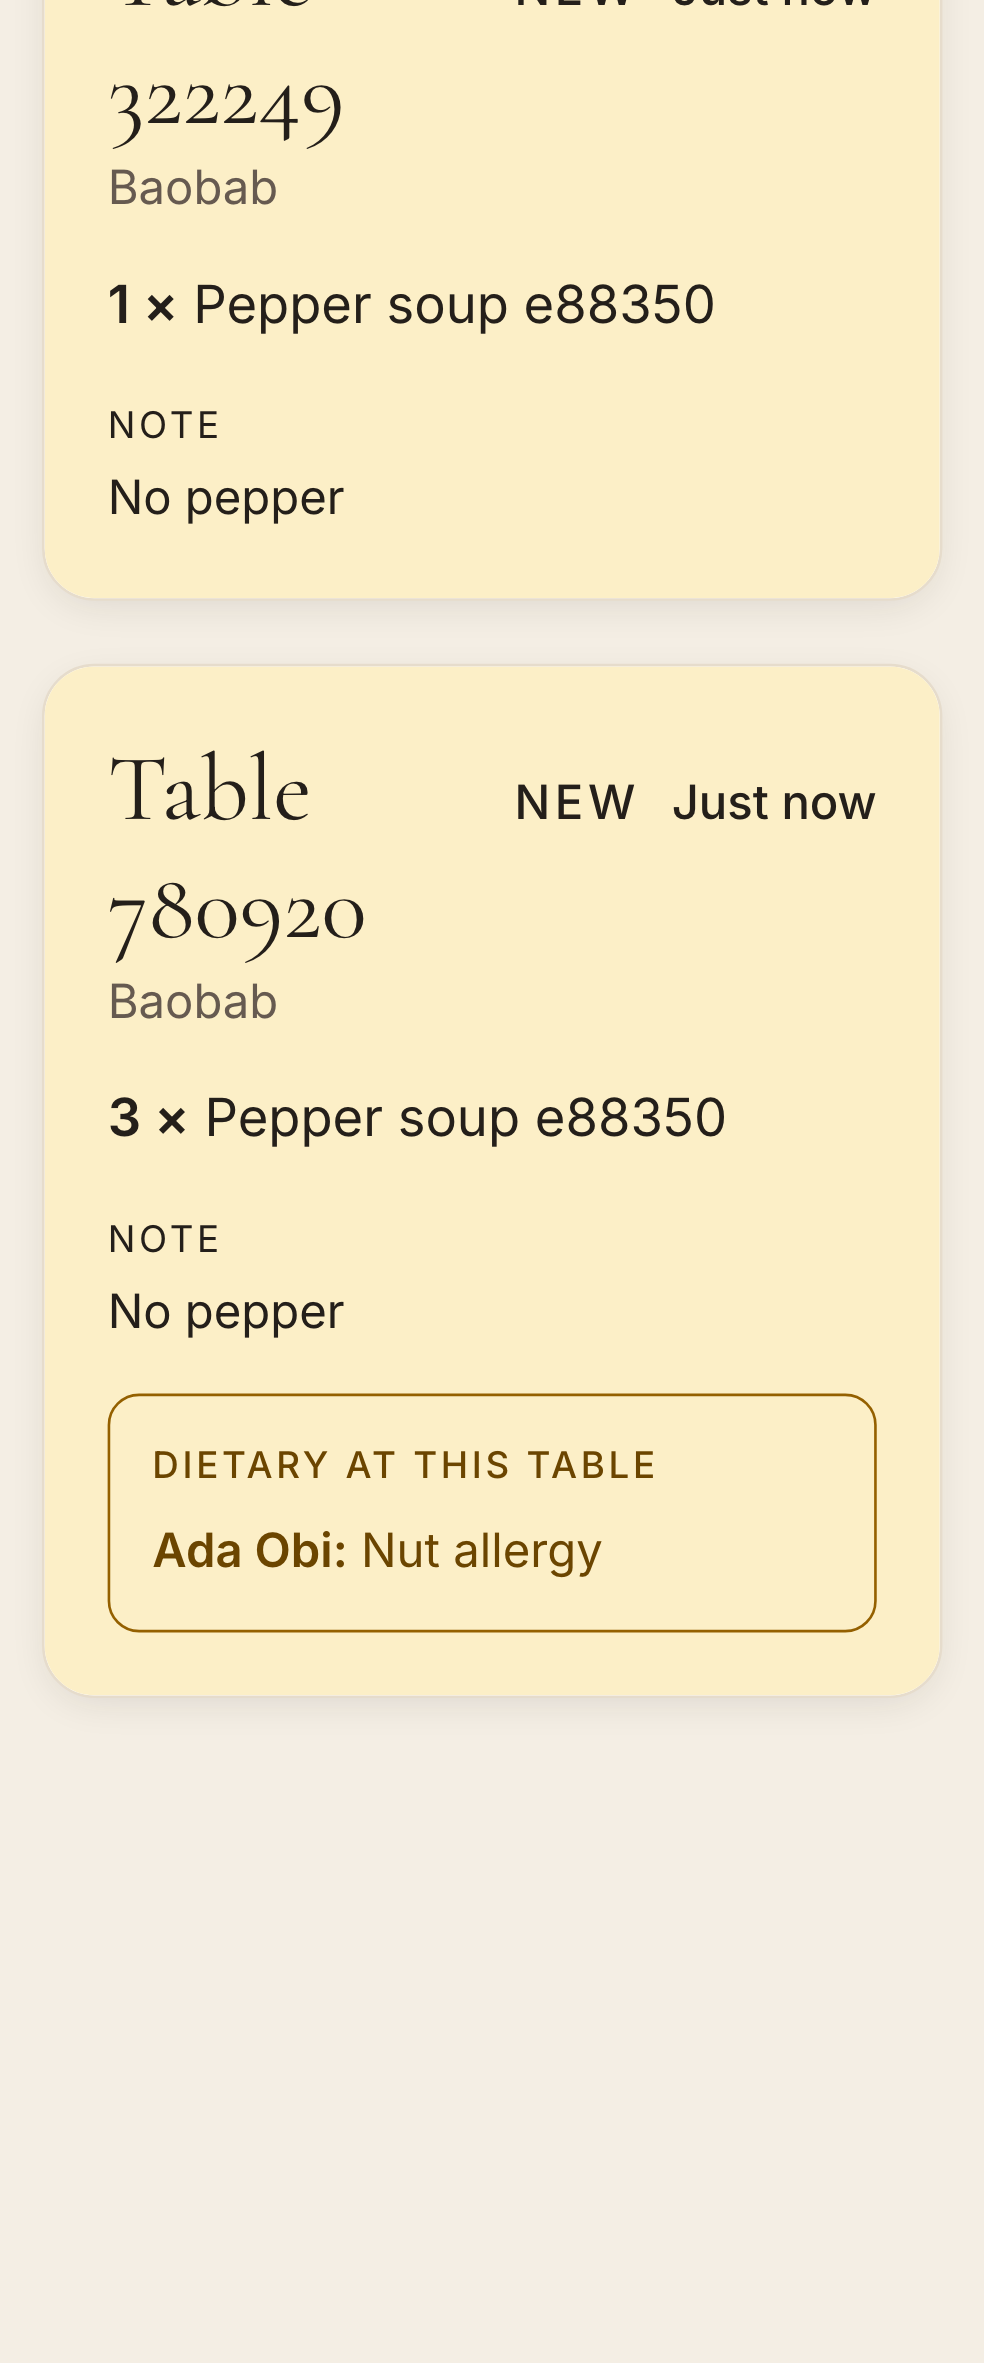
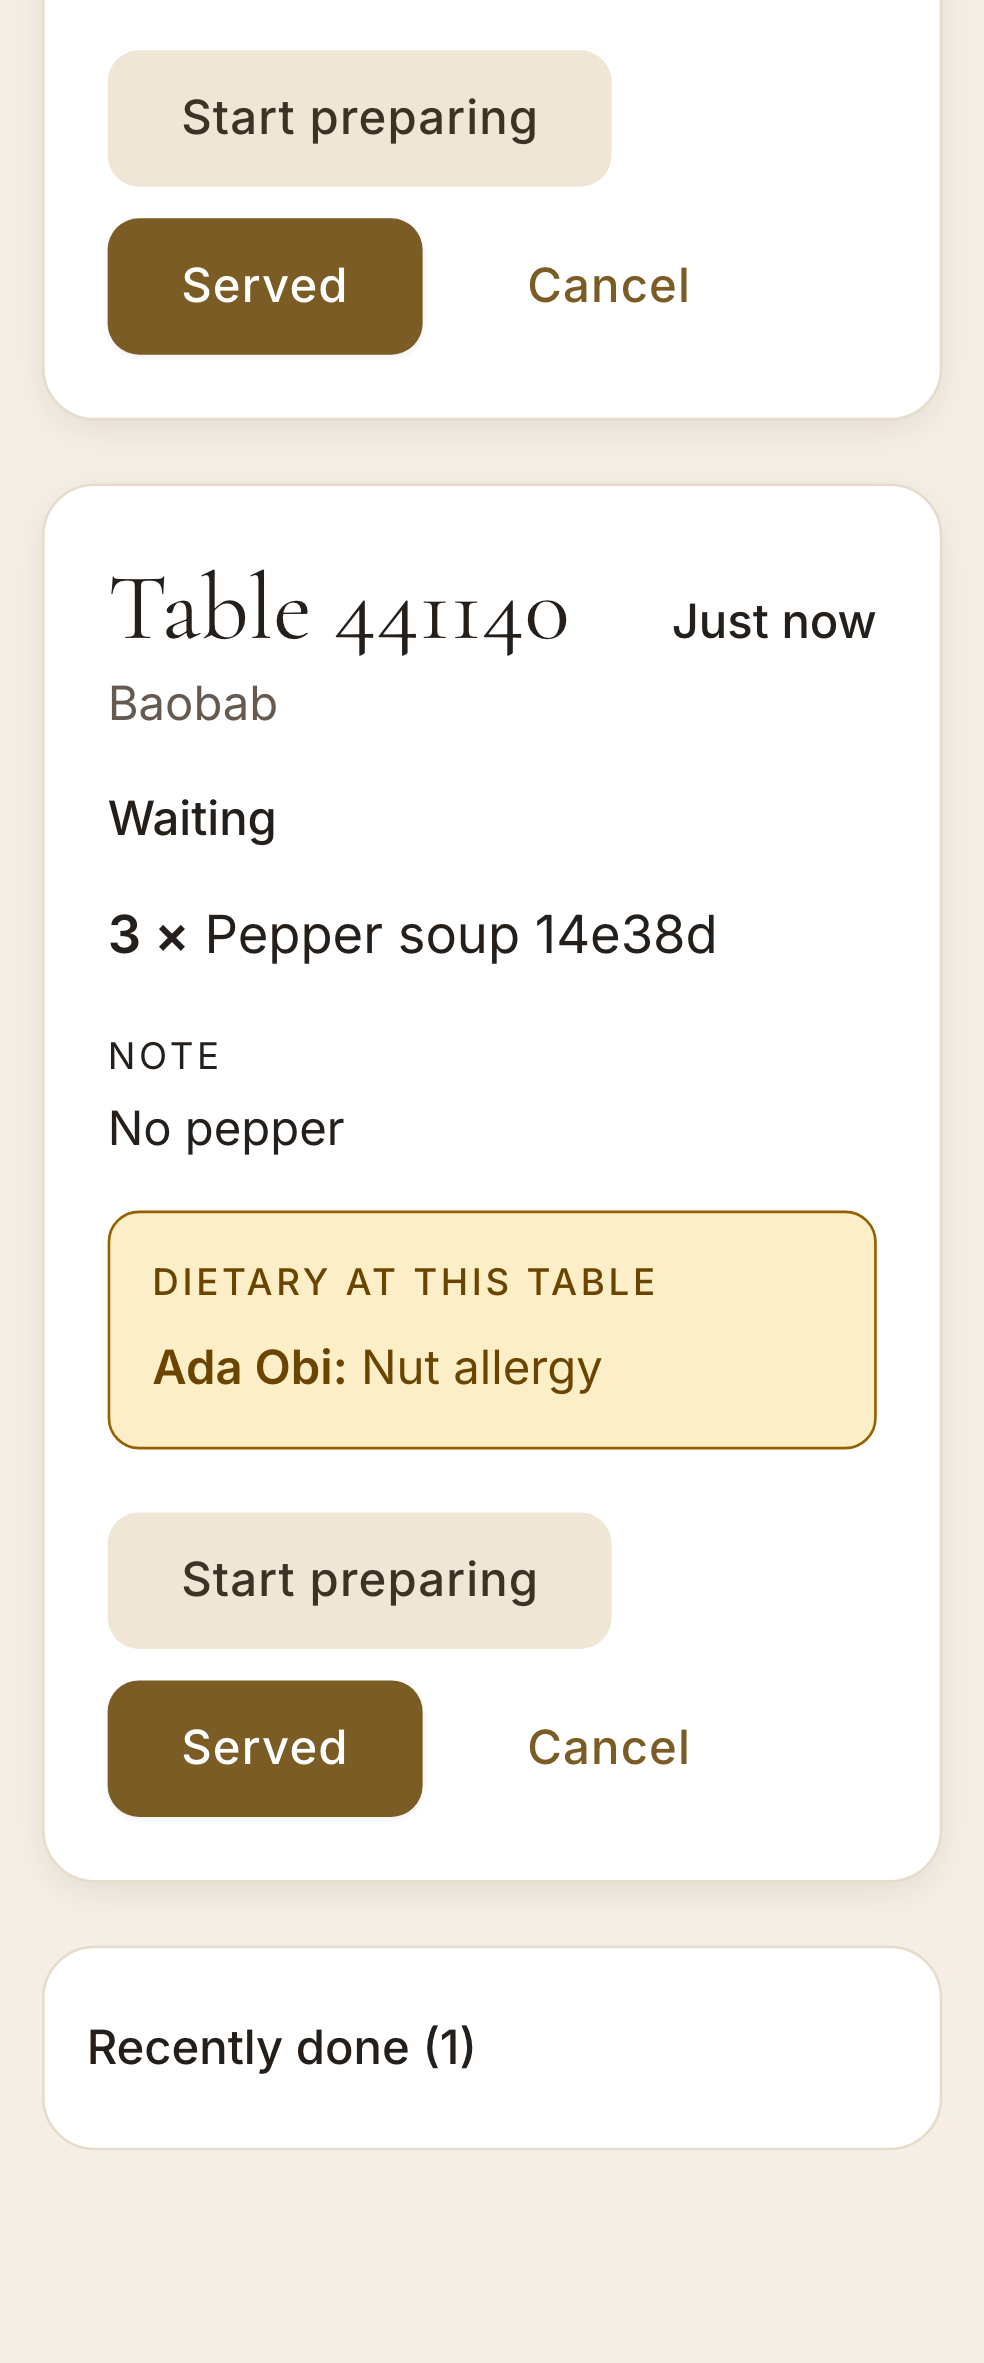
TICKET-078: test board actions end to end and write up

diff --git a/e2e/station-boards.spec.ts b/e2e/station-boards.spec.ts
@@ -265,4 +265,81 @@ test.describe("kitchen board", () => {
       await bar.context.close();
     }
   });
+
+  test("staff move an order to served, a failed save reverts, and cancelling needs a reason", async ({
+    page,
+  }) => {
+    test.setTimeout(120_000);
+    await page.goto("/kitchen");
+    await page.getByLabel("Your six-digit PIN").fill(pin);
+    await page.getByRole("button", { name: "Sign in", exact: true }).click();
+    await expect(page.getByRole("status").filter({ hasText: "Live" })).toBeVisible({
+      timeout: 15_000,
+    });
+    const served = await placeOrder("served", 1);
+    const failing = await placeOrder("failing", 1);
+    const cancelled = await placeOrder("cancelled", 1);
+    const card = (number: number) =>
+      page
+        .getByRole("list", { name: "Orders, oldest first" })
+        .getByRole("listitem")
+        .filter({
+          hasText: `Table ${number}`,
+        });
+    await expect(card(cancelled.number)).toBeVisible({ timeout: 2_000 });
+
+    // Received → preparing → served; it leaves the queue for "Recently done".
+    await page.getByRole("button", { name: `Start preparing table ${served.number}` }).click();
+    await expect(card(served.number)).toContainText("Preparing");
+    await page.getByRole("button", { name: `Served table ${served.number}` }).click();
+    await expect(card(served.number)).toHaveCount(0);
+    const recent = page.locator("details").filter({ hasText: "Recently done" });
+    await recent.locator("summary").click();
+    await expect(recent).toContainText(`Table ${served.number} · Served`);
+
+    // A forced failure: the card comes straight back and the board says so.
+    await page.route("**/api/kitchen/tickets", (route) =>
+      route.fulfill({ status: 503, contentType: "application/json", body: "{}" }),
+    );
+    await page.getByRole("button", { name: `Served table ${failing.number}` }).click();
+    await expect(
+      page.getByRole("alert").filter({ hasText: `Table ${failing.number} didn’t update` }),
+    ).toBeVisible();
+    await expect(card(failing.number)).toBeVisible();
+    await expect(card(failing.number)).toContainText("Waiting");
+    await page.unroute("**/api/kitchen/tickets");
+
+    // Cancelling asks for confirmation and a reason.
+    await page.getByRole("button", { name: `Cancel table ${cancelled.number}` }).click();
+    const sheet = page.getByRole("dialog", { name: `Cancel table ${cancelled.number}’s order?` });
+    await expect(sheet).toBeVisible();
+    await page.setViewportSize({ width: 375, height: 900 });
+    for (const theme of themes) {
+      await applyTheme(page, theme);
+      expect(await scanA11y(page), theme.id).toEqual([]);
+    }
+    await sheet.getByRole("button", { name: "Cancel order" }).click();
+    await expect(sheet.getByText("Say why, so the guests can be told.")).toBeVisible();
+    await expect(card(cancelled.number)).toBeVisible();
+    mkdirSync("docs/reviews/TICKET-078", { recursive: true });
+    await page.screenshot({ path: "docs/reviews/TICKET-078/375-cancel-sheet.png" });
+    await sheet.getByLabel("Reason").fill("Guest left early");
+    await sheet.getByRole("button", { name: "Cancel order" }).click();
+    await expect(card(cancelled.number)).toHaveCount(0);
+    await expect(recent).toContainText(`Table ${cancelled.number} · Cancelled`);
+
+    const events = await db<{ to_status: string; reason: string | null }[]>`
+      select e.to_status, e.reason from station_order_events e
+      join station_orders s on s.id = e.station_order_id
+      join orders o on o.id = s.order_id join tables t on t.id = o.table_id
+      where t.number in (${served.number}, ${failing.number}, ${cancelled.number})
+      order by e.created_at`;
+    expect(events).toEqual([
+      { to_status: "preparing", reason: null },
+      { to_status: "served", reason: null },
+      { to_status: "cancelled", reason: "Guest left early" },
+    ]);
+    await page.getByRole("list", { name: "Orders, oldest first" }).scrollIntoViewIfNeeded();
+    await page.screenshot({ path: "docs/reviews/TICKET-078/375-board-actions.png" });
+  });
 });

diff --git a/docs/plans/TICKET-078-pr.md b/docs/plans/TICKET-078-pr.md
@@ -1,0 +1,110 @@
+# Ticket
+
+Ticket: TICKET-078
+
+# Summary
+
+Kitchen and bar staff can now move each order through the board (PRD ORD-5) with large buttons: Start preparing,
+Served, or Cancel.
+
+- **Moves:** each move shows immediately and is saved on the server, which accepts only legal moves. If the save
+  fails, the card goes back and the board says so.
+- **Cancelling** asks for confirmation and a reason.
+- **Finished orders** collapse into a "Recently done" list.
+- **History:** every move is timestamped, with who made it and on which device.
+
+**Stacked:** #140 (TICKET-076), then #155 (TICKET-077), then this. Merge in that order.
+
+# Changes
+
+- **Migration `drizzle/0028_station-order-events.sql`** (generated, additive). A new `station_order_events` table
+  holds:
+  - the station ticket, from and to status, reason, staff, device and time
+  - RLS on, with no browser policy (ADR 0024)
+  - checks that a cancel has a reason and that from differs from to
+- **`src/modules/ordering/lib/ticket-status.ts`** (new):
+  - `canMove`, the move rules
+  - `ticketMoveSchema`, a strict input check that requires a reason (at most 200 characters) to cancel
+  - `orderStatusFrom`, which works out the guest order's status from its tickets
+- **`server/move-ticket.ts`** (new): one transaction.
+  1. Lock the ticket, on this station only; another station's ticket is `not_found`.
+  2. Refuse a move from an out-of-date status (`stale`) or an illegal move.
+  3. Record the event and update the ticket.
+  4. Recompute the order's status, so the table's open-order limit frees up on serve.
+  5. Notify the station, after commit.
+- **`server/move-ticket-response.ts`**, **`move-ticket-route.ts`**, and `POST /api/{kitchen,bar}/tickets`:
+  - each move rechecks the live station session
+  - error statuses: 400, 403, 404, 409 (stale or illegal) and 503
+  - plain messages, with no technical detail
+- **Board data:** `recent` lists served or cancelled tickets from the last hour, newest first, at most 10.
+- **`components/station-board.tsx`:** per-card buttons whose accessible names include the table.
+  - Updates apply at once, with rollback and an alert on failure.
+  - The cancel bottom sheet uses the shared `Sheet` and `Textarea`, with a required reason.
+  - "Waiting" and "Preparing" status text, and a collapsible "Recently done" list.
+- **Tests:** `ticket-status` and `move-ticket-response` unit tests, `scripts/__tests__/move-ticket.integration.test.ts`,
+  and a third case in `e2e/station-boards.spec.ts`.
+
+# Acceptance criteria and evidence
+
+- [x] **The server accepts only legal moves (unit).**
+  - The unit test checks every from/to pair against the move list, and that served and cancelled are final.
+  - The database test refuses served → anything, with no event written and the order unchanged.
+  - Of two racing moves on one ticket, exactly one wins and the other is `stale`.
+  - The kitchen can't move the bar's ticket (`not_found`).
+- [x] **A failed update reverts the card and shows an error (e2e with forced failure).**
+  - Playwright makes the next save fail with a 503. The card returns to "Waiting" and the alert "Table N didn't
+    update. Check the connection and try again." appears.
+- [x] **Every move is timestamped.**
+  - The database test reads back each event: from and to status, staff and device ids, and a valid `created_at`.
+  - The e2e reads the three moves it made: preparing, served, and cancelled with "Guest left early".
+  - The database refuses a cancel event without a reason (`23514`).
+
+# UI checklist (staff screen scope)
+
+- **Screenshots:** PASS. `docs/reviews/TICKET-078/375-board-actions.png` and `375-cancel-sheet.png`, inspected.
+- **Tokens:** PASS. Shared `Button` variants and `bg-danger-subtle`; no literal colours.
+- **Restraint and typography:** PASS. One primary action per card (Served); body text at least 18 px.
+- **Mobile:** PASS. Buttons are 52 px tall. The cancel sheet is a bottom sheet.
+- **Motion:** PASS. No new animation; the sheet uses the shared component.
+- **Keyboard:** PASS. Native buttons. The reason field is labelled and its error is announced. The shared dialog
+  handles focus, Escape and returning focus.
+- **Contrast:** PASS. The axe scan in every theme at 375 px, with the cancel sheet open, found no WCAG A or AA
+  violations. Status and errors are text.
+- **Load and images:** N/A. No images.
+- **Performance:** N/A. Staff screen.
+- **Copy:** PASS, provisional: "Start preparing", "Served", "Cancel", "Cancel table N's order?", "Say why, so the
+  guests can be told.", "Keep order", "Recently done", and "Someone else updated this order. The board is
+  refreshing."
+- **Shared components:** PASS. `Button`, `Card`, `Sheet` and `Textarea`; no new shared pattern.
+- **Sharing and devices:** N/A. Staff screen.
+- **QR codes:** N/A.
+- **Staff feedback:** PASS. Every tap updates the card immediately, and a failed save shows an error and reverts.
+- **Verification:** see below.
+
+# Verification
+
+- `RUN_KITCHEN_BOARD_E2E=1 playwright test e2e/station-boards.spec.ts --project=mobile` on `pnpm build`: all 3
+  passed. The actions case failed once on an ambiguous alert locator (Next's route announcer is also an alert); it
+  passed after the fix.
+- `RUN_TICKET_MOVE_DB_TESTS=1 vitest run scripts/__tests__/move-ticket.integration.test.ts`: 4 passed, twice.
+- Unit tests: `ticket-status` 13, and `move-ticket-response` with `station-board` 19, all passed.
+- `pnpm typecheck` and ESLint: clean.
+
+# Not tested and limitations
+
+- **The guest's order page doesn't show these statuses yet;** that's TICKET-075.
+- **There's no undo for served or cancelled.** A mistake there means placing the order again.
+- **Not checked on real tablets** (TICKET-076's manual check covers the board).
+
+# Risks and rollout
+
+- **Migration 0028 is additive:** a new table, so existing rows are unaffected.
+- **Rollback:** revert the PR. The table can stay, or a follow-up migration can drop it with your approval.
+
+# Screenshots
+
+`docs/reviews/TICKET-078/375-board-actions.png`, `docs/reviews/TICKET-078/375-cancel-sheet.png`
+
+# Harness changes, if any
+
+None.

diff --git a/tickets/TICKET-078-let-staff-move-orders-through-received-preparing.md b/tickets/TICKET-078-let-staff-move-orders-through-received-preparing.md
@@ -41,9 +41,9 @@ See: [Table ordering](../docs/prd.md#table-ordering) (ORD-5).
 
 ## Acceptance criteria
 
-- [ ] Only legal status moves are accepted server-side (unit).
-- [ ] A failed update reverts the card and shows an error (e2e with forced failure).
-- [ ] Every move is timestamped.
+- [x] Only legal status moves are accepted server-side (unit).
+- [x] A failed update reverts the card and shows an error (e2e with forced failure).
+- [x] Every move is timestamped.
 
 ## Test plan
 
@@ -58,6 +58,16 @@ See: [Table ordering](../docs/prd.md#table-ordering) (ORD-5).
 ## Notes / decisions
 
 _Agents append dated notes here while working._
+
+- 2026-11-10 (unclechenna, claude):
+  - **Moves:** received → preparing → served, or cancelled before served. Received → served is allowed for quick
+    drinks. Served and cancelled are final.
+  - **History:** every move is a row in `station_order_events` (migration 0028, additive) with the from and to
+    status, staff, device and time. The database refuses a cancel without a reason.
+  - **Two tablets:** each move names the status the board showed. A move from an out-of-date status is refused as
+    `stale`, so racing tablets can't both win.
+  - **Order status** follows its tickets, so the table's open-order limit frees up once everything is served.
+  - **Stacked on TICKET-077 (#155)**, which is stacked on TICKET-076 (#140).
 
 ## Activity log
 
